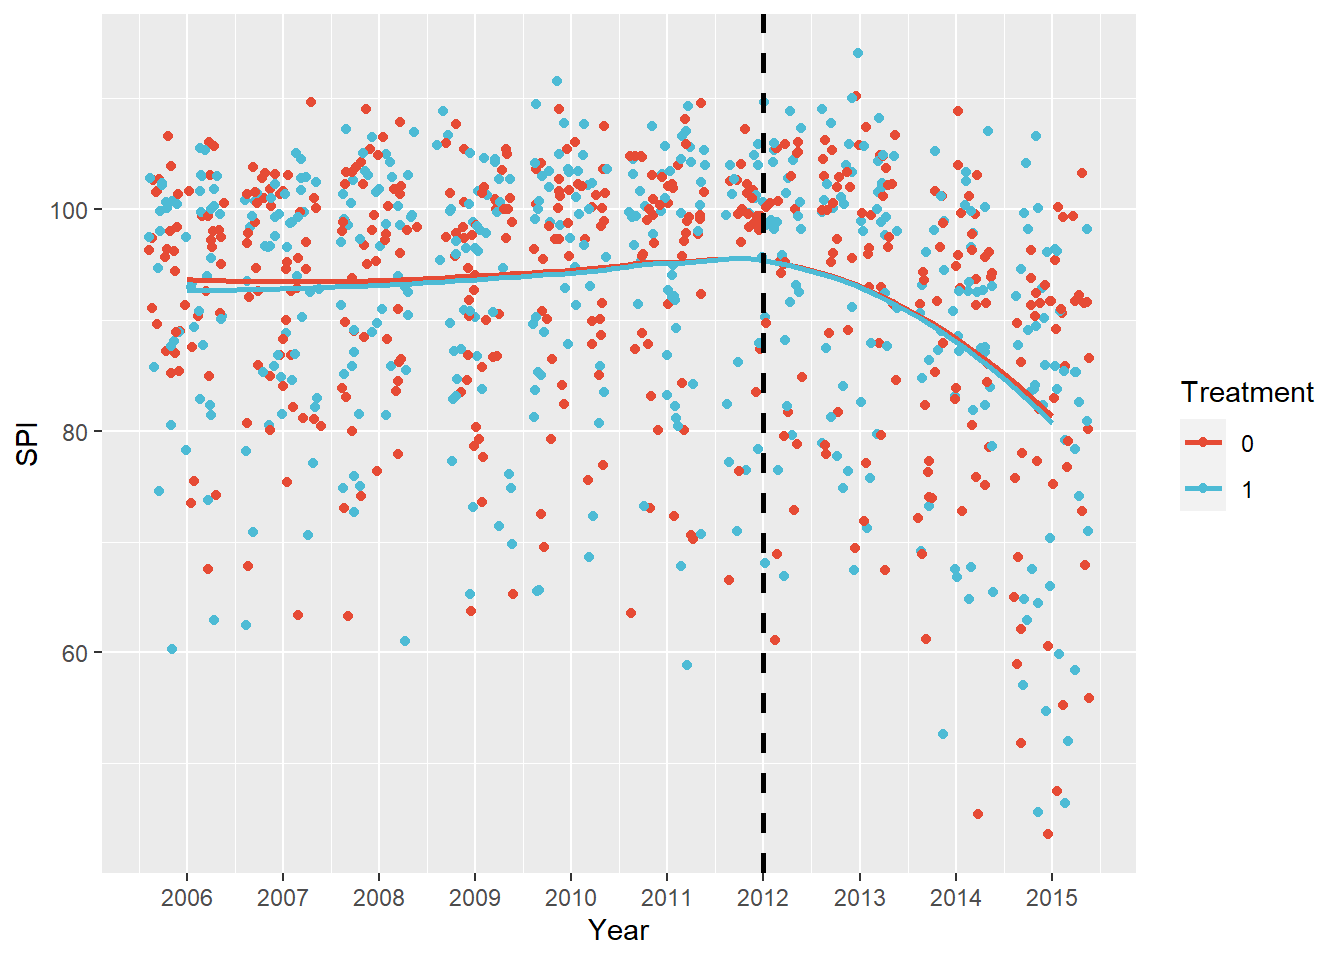
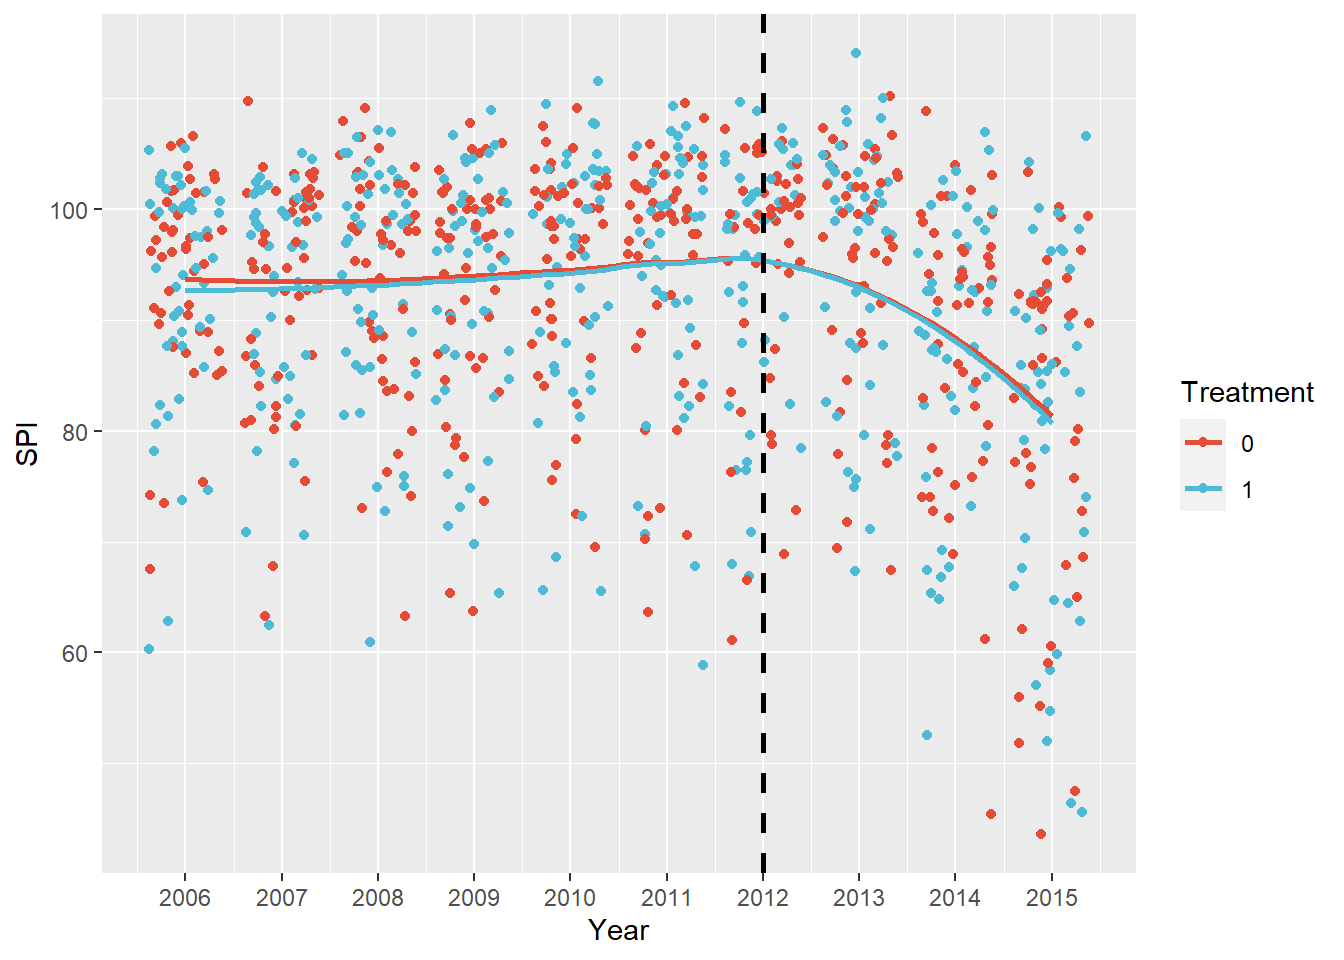
causal inference #2 changed loess

diff --git a/content/post/2021-07-27-causal-inference-2-difference-in-differences/index.en.html b/content/post/2021-07-27-causal-inference-2-difference-in-differences/index.en.html
@@ -111,7 +111,7 @@ ggplot(diff, aes(Post, mean_SPI, color=factor(Treatment))) +
 <p>First of all, the mean before 2012 is higher for both groups than in the period after 2012. The best the intervention can hope for then is to have a slower decline in test scores.</p>
 <p>In any case, the picture above shows what difference in differences is all about. The red line shows the change in mean before and after 2012 for the control group, while the blue line shows the decline for the intervention group. The dashed line is the crucial bit. It shows what <em>would have happened</em> in the intervention group if there had been no intervention - so if no new schools would have been built. This is the core of causality. You compare an outcome to what would have happened absent the presumed cause. If we compare the actual outcome with the counterfactual dashed line, we notice that there is a tiny improvement.</p>
 <p>The crucial assumption of the difference in differences approach is that the treatment group would have moved along a similar trajectory as the control group. That is, we assume the dashed line (the counterfactual) is parallel to the red line. But that assumption is something we should make a case for. The plausibility of the causal claim rests on the strength of this case.</p>
-<p>Before we get to that case, we plot the student results in both groups not by just connecting the means in the two periods, but with a kernel regression.</p>
+<p>Before we get to that case, we plot the student results in both groups not by just connecting the means in the two periods, but with a locally weighted regression.</p>
 <pre class="r"><code>library(&quot;ggsci&quot;)
 
 leed %&gt;% ggplot(aes(Year, SPI, color=factor(Treatment))) +
